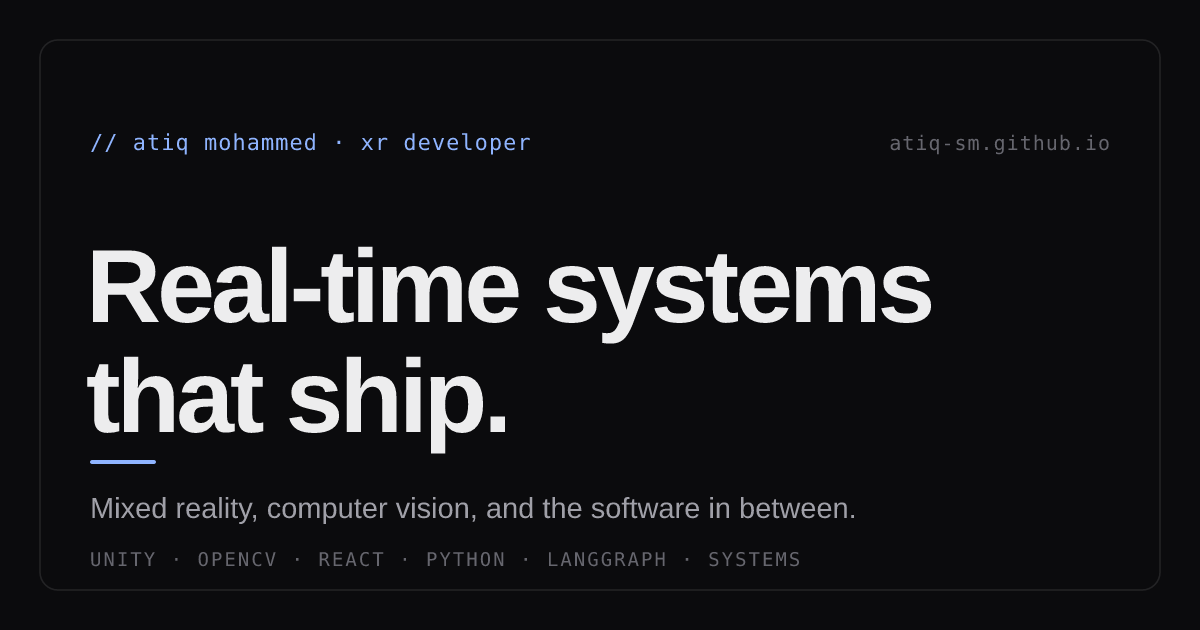
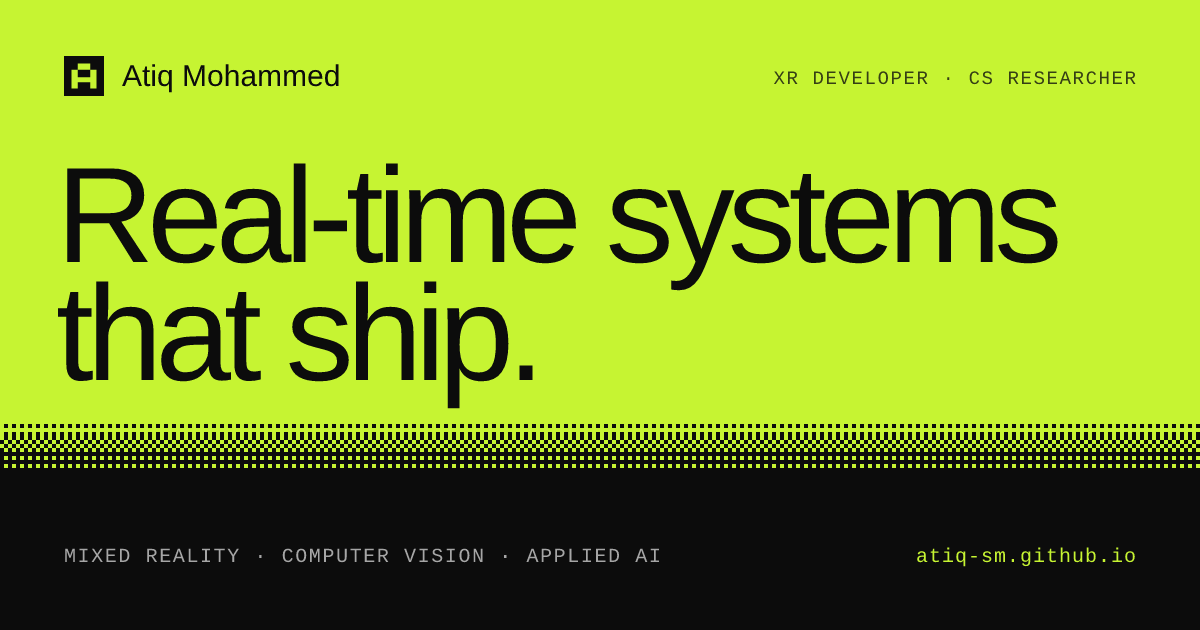
Refresh share assets, page metadata and docs for the redesign
- favicon.svg and the touch icon: the pixel "A" from the top bar, ink
  on a lime tile
- og-image.svg: the lime hero, headline and seam at share size; the
  PNG is regenerated. generate-og.mjs now swaps the SVG's generic font
  families for what the site's stacks resolve to on each OS, since
  resvg honors only the first family in a list and ignores its
  generic-family options (the old image fell back to DejaVu Sans)
- Each page's head: title, description, canonical and share tags with
  its own og:url; the homepage's Person JSON-LD adds role, affiliation
  and location
- manifest colors, a sitemap listing all three pages
- deploy.yml builds on Node 22 (Node 20 reached end of life in April)
- README: the pages, the content model, the build and pre-render
  steps, how the illustrations work, and the design credit

Claude-Session: https://claude.ai/code/session_015ULKxQHo4YRDPBEe2sFtAj

diff --git a/index.html b/index.html
@@ -3,22 +3,22 @@
   <head>
     <meta charset="UTF-8" />
     <meta name="viewport" content="width=device-width, initial-scale=1.0" />
-    <title>Atiq Mohammed — Portfolio</title>
-    <meta name="description" content="Portfolio of Atiq Mohammed — mixed reality, computer vision, and the projects in between." />
+    <title>Atiq Mohammed — XR developer and CS researcher</title>
+    <meta name="description" content="Atiq Mohammed builds real-time systems that ship: mixed reality, computer vision and applied AI, including an MR ultrasound trainer live at Barbara Bush Children&#39;s Hospital." />
     <link rel="canonical" href="https://atiq-sm.github.io/" />
 
     <meta property="og:type" content="website" />
     <meta property="og:site_name" content="Atiq Mohammed" />
-    <meta property="og:title" content="Atiq Mohammed — Portfolio" />
-    <meta property="og:description" content="Portfolio of Atiq Mohammed — mixed reality, computer vision, and the projects in between." />
+    <meta property="og:title" content="Atiq Mohammed — Real-time systems that ship" />
+    <meta property="og:description" content="Atiq Mohammed builds real-time systems that ship: mixed reality, computer vision and applied AI, including an MR ultrasound trainer live at Barbara Bush Children&#39;s Hospital." />
     <meta property="og:url" content="https://atiq-sm.github.io/" />
     <meta property="og:image" content="https://atiq-sm.github.io/og-image.png" />
     <meta property="og:image:width" content="1200" />
     <meta property="og:image:height" content="630" />
 
     <meta name="twitter:card" content="summary_large_image" />
-    <meta name="twitter:title" content="Atiq Mohammed — Portfolio" />
-    <meta name="twitter:description" content="Portfolio of Atiq Mohammed — mixed reality, computer vision, and the projects in between." />
+    <meta name="twitter:title" content="Atiq Mohammed — Real-time systems that ship" />
+    <meta name="twitter:description" content="Atiq Mohammed builds real-time systems that ship: mixed reality, computer vision and applied AI, including an MR ultrasound trainer live at Barbara Bush Children&#39;s Hospital." />
     <meta name="twitter:image" content="https://atiq-sm.github.io/og-image.png" />
 
     <script>
@@ -38,8 +38,14 @@
       {
         "@context": "https://schema.org",
         "@type": "Person",
-        "name": "Atiq Mohammed",
+        "name": "Atiq Sohail Mohammed",
+        "alternateName": "Atiq Mohammed",
         "url": "https://atiq-sm.github.io/",
+        "jobTitle": "XR Developer and CS Researcher",
+        "affiliation": { "@type": "CollegeOrUniversity", "name": "Northeastern University" },
+        "alumniOf": { "@type": "CollegeOrUniversity", "name": "KL Deemed to be University" },
+        "homeLocation": { "@type": "Place", "name": "Portland, ME" },
+        "knowsAbout": ["Mixed reality", "Computer vision", "Real-time rendering", "Applied AI"],
         "sameAs": [
           "https://github.com/atiq-sm"
         ]

diff --git a/about/index.html b/about/index.html
@@ -4,8 +4,22 @@
     <meta charset="UTF-8" />
     <meta name="viewport" content="width=device-width, initial-scale=1.0" />
     <title>About — Atiq Mohammed</title>
-    <meta name="description" content="Atiq Mohammed, XR researcher at Northeastern's Roux Institute: what I'm working on now, experience and education." />
+    <meta name="description" content="Atiq Mohammed, XR researcher at Northeastern&#39;s Roux Institute: what I&#39;m working on now, experience and education." />
     <link rel="canonical" href="https://atiq-sm.github.io/about/" />
+
+    <meta property="og:type" content="website" />
+    <meta property="og:site_name" content="Atiq Mohammed" />
+    <meta property="og:title" content="About — Atiq Mohammed" />
+    <meta property="og:description" content="Atiq Mohammed, XR researcher at Northeastern&#39;s Roux Institute: what I&#39;m working on now, experience and education." />
+    <meta property="og:url" content="https://atiq-sm.github.io/about/" />
+    <meta property="og:image" content="https://atiq-sm.github.io/og-image.png" />
+    <meta property="og:image:width" content="1200" />
+    <meta property="og:image:height" content="630" />
+
+    <meta name="twitter:card" content="summary_large_image" />
+    <meta name="twitter:title" content="About — Atiq Mohammed" />
+    <meta name="twitter:description" content="Atiq Mohammed, XR researcher at Northeastern&#39;s Roux Institute: what I&#39;m working on now, experience and education." />
+    <meta name="twitter:image" content="https://atiq-sm.github.io/og-image.png" />
 
     <link rel="icon" type="image/svg+xml" href="/favicon.svg" />
     <link rel="apple-touch-icon" sizes="180x180" href="/apple-touch-icon.png" />

diff --git a/work/index.html b/work/index.html
@@ -4,8 +4,22 @@
     <meta charset="UTF-8" />
     <meta name="viewport" content="width=device-width, initial-scale=1.0" />
     <title>Work — Atiq Mohammed</title>
-    <meta name="description" content="Fifteen projects by Atiq Mohammed across mixed reality, applied AI, games and systems, each with its code." />
+    <meta name="description" content="Fifteen projects by Atiq Mohammed across mixed reality, applied AI, games, systems and the web, most with their code." />
     <link rel="canonical" href="https://atiq-sm.github.io/work/" />
+
+    <meta property="og:type" content="website" />
+    <meta property="og:site_name" content="Atiq Mohammed" />
+    <meta property="og:title" content="Work — Atiq Mohammed" />
+    <meta property="og:description" content="Fifteen projects by Atiq Mohammed across mixed reality, applied AI, games, systems and the web, most with their code." />
+    <meta property="og:url" content="https://atiq-sm.github.io/work/" />
+    <meta property="og:image" content="https://atiq-sm.github.io/og-image.png" />
+    <meta property="og:image:width" content="1200" />
+    <meta property="og:image:height" content="630" />
+
+    <meta name="twitter:card" content="summary_large_image" />
+    <meta name="twitter:title" content="Work — Atiq Mohammed" />
+    <meta name="twitter:description" content="Fifteen projects by Atiq Mohammed across mixed reality, applied AI, games, systems and the web, most with their code." />
+    <meta name="twitter:image" content="https://atiq-sm.github.io/og-image.png" />
 
     <link rel="icon" type="image/svg+xml" href="/favicon.svg" />
     <link rel="apple-touch-icon" sizes="180x180" href="/apple-touch-icon.png" />

diff --git a/README.md b/README.md
@@ -1,25 +1,92 @@
 # new-profile
 
-Personal portfolio site — built with Vite + React, deployed to GitHub Pages.
+Personal portfolio site — built with Vite + React, pre-rendered to static HTML at
+build time, and deployed to GitHub Pages.
 
-Live site (after first deploy): https://atiq-sm.github.io
+Live site: https://atiq-sm.github.io
 
 ## Quickstart
 
 ```bash
 npm install
 npm run dev       # local dev server on http://localhost:5173
-npm run build     # production build into dist/
-npm run preview   # preview the production build locally
+npm run build     # production build into dist/ (client, SSR, then pre-render)
+npm run preview   # serve the production build locally
 ```
+
+## Pages
+
+| URL       | Source                 | What it holds                                                   |
+| --------- | ---------------------- | --------------------------------------------------------------- |
+| `/`       | `src/pages/Home.jsx`   | The overview: hero and stats, featured work, a timeline of roles |
+| `/work/`  | `src/pages/Work.jsx`   | Every project: the MR POCUS case study, a filter, all write-ups  |
+| `/about/` | `src/pages/About.jsx`  | Bio, what I'm working on now, full experience and education     |
+| 404       | `src/pages/NotFound.jsx` | GitHub Pages serves `dist/404.html` for unknown paths          |
+
+Each page is its own HTML file (`index.html`, `work/index.html`,
+`about/index.html`, `404.html`) with its own title and share tags. All of them
+load `src/main.jsx`, which renders the page named by `<body data-page>`. Links
+between pages are always absolute (`/work/`, `/about/#experience`).
+
+Old single-page links keep working: `/#about`, `/#projects` and `/#experience`
+redirect to their new homes, and `/#contact` still lands on the contact band.
 
 ## Editing your content
 
-All text, links, and project entries live in one file:
+Everything the pages say about you lives in one file:
 
 - `src/data/site.js`
 
-Change your name, tagline, bio, social links, and project cards there. No other file needs to be touched for a content update.
+Section headings ("Selected work.", "Now.") live in the page files. In
+`site.js`:
+
+- `intro`, `stats`: the homepage hero's lede, fine print and four numbers
+- `status`: the short tag in the top bar
+- `about`, `now`, `focus`, `approach`, `location`: the About page
+- `experience`: each entry has a `kind`, `'work'` or `'education'`; the homepage
+  shows the work roles, About shows both with their bullets
+- `projects`: each has a `category` (the filter on /work/), and optionally:
+  - `featured: true` with a one-line `summary` to appear on the homepage
+  - `viz` to give it an animated illustration (`pocus`, `knockout`, `rag`, `snake`)
+  - `headline` and `facts` to make it the case study at the top of /work/
+  - `slug` to choose its anchor on /work/ (otherwise it comes from the title)
+
+The Repository button only appears when `href` points at a repository, so a
+project linked to your profile shows none until its URL is filled in.
+
+## How it is built
+
+`npm run build` runs three steps:
+
+1. `vite build`: the client bundle and the four HTML files, into `dist/`
+2. `vite build --ssr src/entry-server.jsx`: a render function, into the
+   git-ignored `dist-ssr/`
+3. `node scripts/prerender.mjs`: renders each page to HTML and writes it into
+   its file in `dist/`
+
+The browser then hydrates that markup, so every page paints before any
+JavaScript runs and reads fully without it. Keep render output deterministic
+(no `Date.now()`, `Math.random()` or `window` while rendering) so the
+pre-rendered page and the hydrated one agree; browser-only work belongs in
+`useEffect`.
+
+Live GitHub stats (language, stars, last push) come from one request to the
+GitHub API per visit, cached for 30 minutes in `sessionStorage`.
+
+## Illustrations
+
+The animated project illustrations are drawn in grayscale on a canvas and
+presented through an ordered (Bayer) dither in ink and lime:
+
+- `src/lib/dither.js`: the dither stage
+- `src/lib/ticker.js`: one animation loop, running only while an illustration
+  is on screen
+- `src/viz/*.js`: one scene each, a pure function of time drawn with the
+  pixel-snapped kit in `src/viz/kit.js`
+
+To add one, write a scene in `src/viz/`, register it in `src/viz/index.js`,
+and set that key as a project's `viz`. Visitors who prefer reduced motion see a
+single still frame.
 
 ## Deploying to GitHub Pages
 
@@ -44,14 +111,32 @@ them). After editing `public/og-image.svg` or `public/favicon.svg`, run:
 npm run generate:og
 ```
 
+The SVGs use generic font families; the script maps them to the fonts the site
+itself uses on your OS.
+
+## Design
+
+The design language (lime on ink, the 12-column grid, the type scale, the
+dithered seams and canvases) is adapted from the
+[Laya playground](https://brainfunctioncollapse.com/laya) by brain function
+collapse, used under the MIT License. See `THIRD_PARTY_NOTICES.md`.
+
 ## Project structure
 
 ```
+index.html, work/, about/, 404.html   # one HTML entry per page
 src/
   data/site.js        # content — edit here
-  sections/           # Hero, About, Experience, Projects, Contact, Footer
-  components/          # Nav, CommandPalette, ThemeToggle, Reveal, RepoMeta
-  App.jsx             # composes the sections
-  main.jsx            # React entry
-  styles.css          # design tokens (technical / mono) + layout
+  pages/              # Home, Work, About, NotFound
+  components/         # TopBar, Hero, Section, Band, Footer, ProjectCard, …
+  viz/                # the illustration scenes
+  lib/                # dither stage, animation ticker, formatters
+  hooks/              # useGithubRepo
+  App.jsx             # the page map and shared layout
+  main.jsx            # browser entry: hydrates the pre-rendered page
+  entry-server.jsx    # build-time render for scripts/prerender.mjs
+  styles.css          # the design system
+scripts/
+  prerender.mjs       # writes pre-rendered markup into dist/
+  generate-og.mjs     # rasterizes the share image and touch icon
 ```
